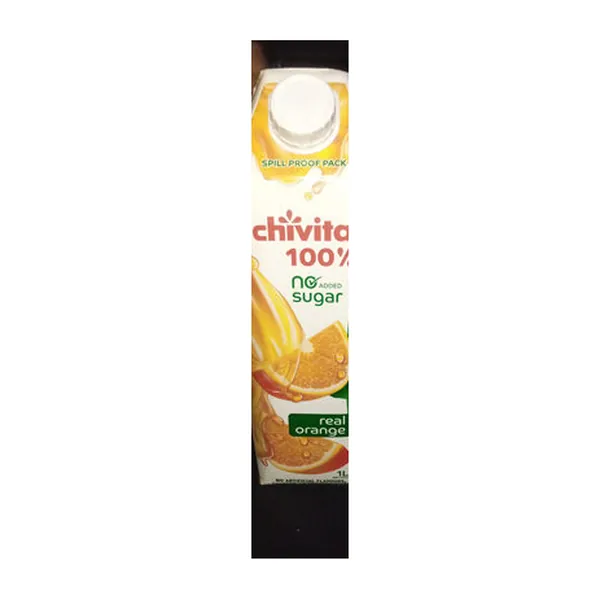
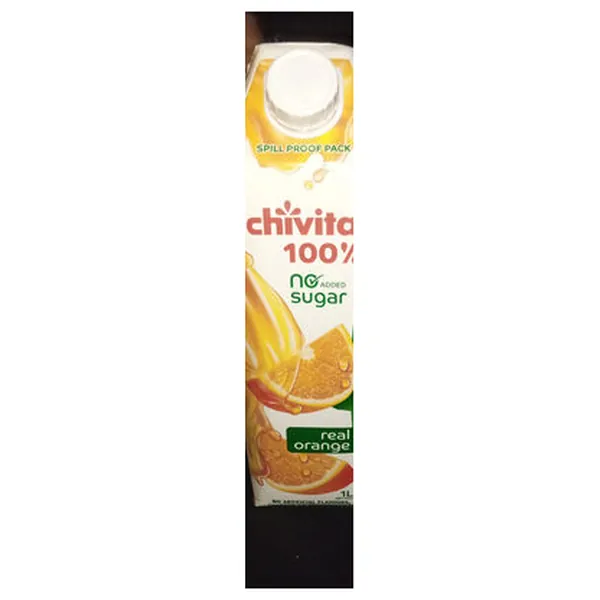
Aisle tiles use photos; product photos fill their tile
- Shop by aisle shows a square photo per aisle from
  public/assets/img/aisles/<slug>.webp (Pexels, credits in CREDITS.txt);
  an aisle without a photo falls back to its illustration.
- Product photos fill the tile on white instead of sitting small on grey;
  packshots re-trimmed with a tighter margin. Items with no photo keep
  the grey tile. Reverting is the one .product-media rule in app.css.

Claude-Session: https://claude.ai/code/session_01Tsafi9BUFH7GpkS5HF6kAM

Changed region(s): [[0.39, 0.0, 0.6, 0.99]]

diff --git a/projects/prince-ebeano-supermarket/public/assets/css/app.css b/projects/prince-ebeano-supermarket/public/assets/css/app.css
@@ -409,6 +409,8 @@ button, input, select, textarea { font: inherit; color: inherit; }
 .aisle-card-media .icon { width: 34px; height: 34px; stroke-width: 1.4; }
 .aisle-card-media .aisle-art { width: 58%; height: auto; padding: 0; object-fit: contain; filter: drop-shadow(0 8px 10px rgba(40, 50, 40, .12)); transition: transform .4s cubic-bezier(.2, .7, .2, 1); }
 .aisle-card:hover .aisle-art { transform: translateY(-3px) scale(1.05); }
+.aisle-card-media img.aisle-photo { width: 100%; height: 100%; padding: 0; object-fit: cover; transition: transform .6s cubic-bezier(.2, .7, .2, 1); }
+.aisle-card:hover .aisle-photo { transform: scale(1.06); }
 .aisle-card-name { font-weight: 500; font-size: .95rem; line-height: 1.3; }
 .aisle-card-count { font-size: .78rem; color: var(--ink-3); }
 
@@ -508,7 +510,10 @@ button, input, select, textarea { font: inherit; color: inherit; }
   position: relative; aspect-ratio: 1 / 1; display: grid; place-items: center; overflow: hidden;
   border-radius: var(--radius); background: var(--stone); color: var(--ink-3);
 }
-.product-media img { width: 100%; height: 100%; object-fit: contain; padding: 6%; border-radius: 10px; mix-blend-mode: multiply; }
+/* Product photos fill the tile on white; only items without a photo keep the grey tile. */
+.product-media:not(.is-blank) { background: #fff; }
+.product-media img { width: 100%; height: 100%; object-fit: contain; padding: 0; transition: transform .5s cubic-bezier(.2, .7, .2, 1); }
+.product-card:hover .product-media:not(.is-blank) img { transform: scale(1.04); }
 .product-media .media-icon { width: 30px; height: 30px; stroke-width: 1.5; opacity: .45; }
 .product-media img.media-art { width: 44%; height: auto; padding: 0; filter: drop-shadow(0 10px 12px rgba(40, 50, 40, .12)); transition: transform .4s cubic-bezier(.2, .7, .2, 1); }
 .product-card:hover .media-art { transform: translateY(-3px) scale(1.04); }

diff --git a/projects/prince-ebeano-supermarket/app/views/partials.php b/projects/prince-ebeano-supermarket/app/views/partials.php
@@ -147,6 +147,16 @@ function banner_photo(string $name, string $position = 'center', bool $eager = f
         . ($eager ? ' fetchpriority="high"' : ' loading="lazy"') . ' decoding="async" style="object-position:' . e($position) . '"></span>';
 }
 
+/** Aisle tile picture: assets/img/aisles/<slug>.webp when there is one, otherwise the aisle's illustration. */
+function aisle_image(array $c): string
+{
+    $file = 'assets/img/aisles/' . $c['slug'] . '.webp';
+    if (is_file(PUBLIC_DIR . '/' . $file)) {
+        return '<img class="aisle-photo" src="' . e(url($file)) . '" alt="" width="480" height="480" loading="lazy" decoding="async">';
+    }
+    return art(category_art($c), '', 'aisle-art');
+}
+
 /** Illustration for an aisle, chosen by the aisle's icon so new aisles get one too. */
 function category_art(array $c): string
 {

diff --git a/projects/prince-ebeano-supermarket/public/index.php b/projects/prince-ebeano-supermarket/public/index.php
@@ -137,7 +137,7 @@ page_start('', ['active' => 'home', 'branch_prompt' => true]);
         $items = $byCat[(int)$c['id']] ?? [];
         $available = count(array_filter($items, fn($r) => in_array($r['stock_status'] ?? '', ['in_stock', 'low_stock'], true))); ?>
         <a class="aisle-card" href="<?= e(url('shop.php?category=' . urlencode($c['slug']))) ?>">
-          <span class="aisle-card-media"><?= art(category_art($c), '', 'aisle-art') ?></span>
+          <span class="aisle-card-media"><?= aisle_image($c) ?></span>
           <span class="aisle-card-name"><?= e($c['name']) ?></span>
           <span class="aisle-card-count"><?= $branch ? $available . ' available' : count($items) . ' products' ?></span>
         </a>

diff --git a/projects/prince-ebeano-supermarket/dev/preview/debrand.py b/projects/prince-ebeano-supermarket/dev/preview/debrand.py
@@ -75,7 +75,7 @@ for name in os.listdir(SRC):
     s = re.sub(r'(google\.com/maps/search/\?api=1&amp;query=)[^"]*', r'\1supermarket+Lagos', s)
     open(os.path.join(OUT, name), 'w').write(s)
 open(os.path.join(OUT, 'assets/img/sample-mark.svg'), 'w').write(MARK)
-for d in ('art', 'photos', 'products'):
+for d in ('art', 'photos', 'products', 'aisles'):
     shutil.copytree(os.path.join(SRC, 'assets/img', d), os.path.join(OUT, 'assets/img', d))
 open(os.path.join(OUT, 'assets/img/sample-badge.svg'), 'w').write(BADGE)
 

diff --git a/projects/prince-ebeano-supermarket/dev/preview/build.py b/projects/prince-ebeano-supermarket/dev/preview/build.py
@@ -201,7 +201,7 @@ for p in OWNER_PAGES:
 
 for img in ('logo-mark.svg', 'favicon.svg', 'logo-badge.png', 'logo-badge.svg'):
     shutil.copy(os.path.join(PROJECT, 'public/assets/img', img), os.path.join(OUT, 'assets/img', img))
-for d in ('art', 'photos', 'products'):
+for d in ('art', 'photos', 'products', 'aisles'):
     shutil.copytree(os.path.join(PROJECT, 'public/assets/img', d), os.path.join(OUT, 'assets/img', d))
 
 # index.html opens the first-visit home page (so the preview folder can be double-clicked).
